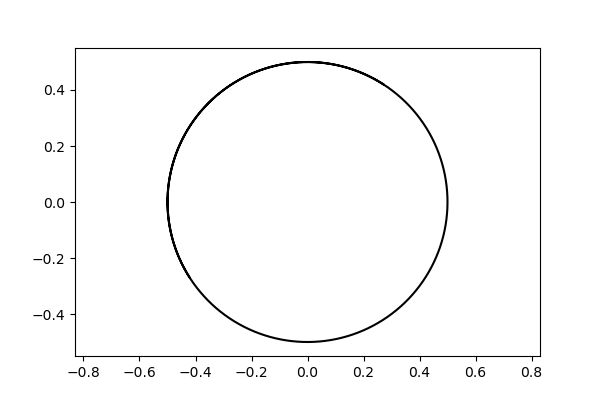
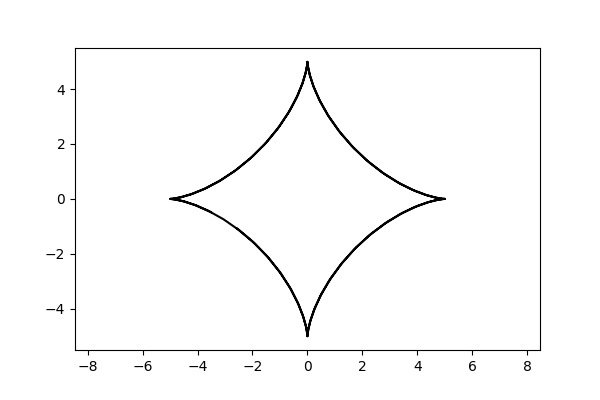
изменен6ия

diff --git a/solver.py b/solver.py
@@ -57,7 +57,7 @@ class Solver:
             plt.plot(x, y, color=self.LINE_COLOR, label=self.MAT_FUNC)
         
         def astroid():
-            t = np.arange(-2 * (self.MIN_RAD / 4), 2 * self.MIN_RAD)
+            t = np.arange(-2 * (self.MIN_RAD / 4), 2 * self.MIN_RAD, 0.1)
             
             x = self.MIN_RAD * np.cos(t) ** 3
             y = self.MIN_RAD * np.sin(t) ** 3
